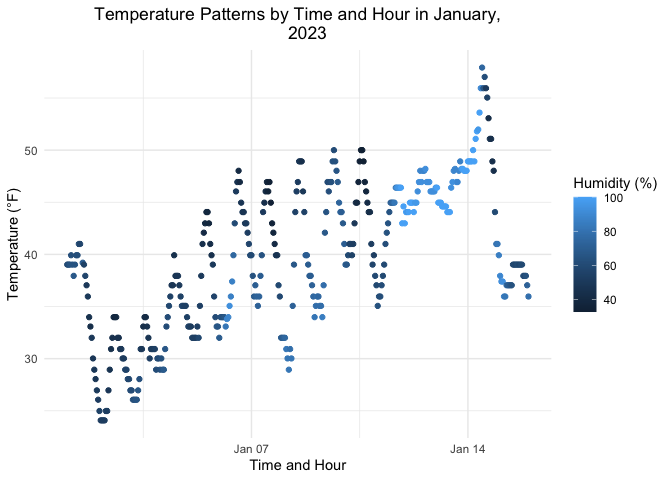
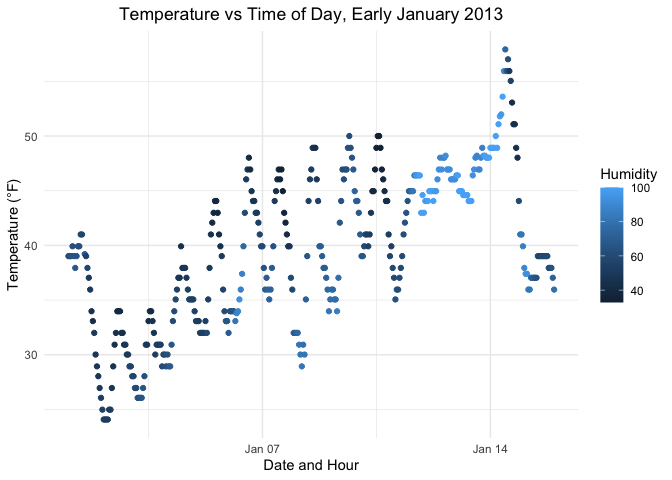
Final updates to problem sets + general formatting

diff --git a/p8105_hw1_smo2147.md b/p8105_hw1_smo2147.md
@@ -31,33 +31,33 @@ variable that stands out in this dataset is the **temperature** variable
 levels. It is important to note that the average temperature has a mean
 of **39.5821229** in Fahrenheit. Moreover, the average hour is
 **11.5307263** and the average wind speed is **8.2258269** in the month
-of January, 2023.
+of January, 2013.
 
 The following table describes the remaining variables that were also
 used to capture observations in weather patterns in the month of
-January, year 2023:
+January, year 2013:
 
-| Variable    | Description                                         |
-|-------------|-----------------------------------------------------|
-| `origin`    | Location where the weather observation was recorded |
-| `year`      | Year of observation                                 |
-| `month`     | Month of observation                                |
-| `hour`      | Hour of the day                                     |
-| `day`       | Day of the month of observation                     |
-| `dewp`      | Dew point temperature, indicating moisture in air   |
-| `humid`     | Humidity at time of observation                     |
-| `wind_dir`  | Wind direction at time of observation               |
-| `wind_gust` | Peak instantaneous wind speed at observation        |
-| `precip`    | Precipitation at the time of observation            |
-| `pressure`  | Atmospheric pressure at time of observation         |
-| `visib`     | Visibility at time of observation                   |
-| `time_hour` | Time and hour at the time of observation            |
+| Variable | Description |
+|----|----|
+| `origin` | Weather stations |
+| `year` | Year of observation |
+| `month` | Month of observation |
+| `hour` | Hour of the day |
+| `day` | Day of observation |
+| `dewp` | Dew point temperature in Fahrenheit |
+| `humid` | Relative humidity at time of observation |
+| `wind_dir` | Wind direction in degrees at time of observation |
+| `wind_gust` | Peak instantaneous wind speed in miles per hour at observation. |
+| `precip` | Precipitation in inches at the time of observation |
+| `pressure` | Sea level pressure in millibars at time of observation |
+| `visib` | Visibility in miles at time of observation |
+| `time_hour` | Date and hour at the time of observation |
 
-#### Dataframe for Scatterplot
+#### Dataframe for Scatter Plot
 
-Before we plot what the temperature by the hour looks like in a
-scattersplot, let’s use the selection function to create a dataframe for
-the variables `time_hour`, `temp`, and `humid`.
+Before we plot what the temperature by the hour looks like in a scatters
+plot, let’s use the selection function to create a dataframe for the
+variables `time_hour`, `temp`, and `humid`.
 
 ``` r
 weather_df =
@@ -66,7 +66,7 @@ weather_df =
   )
 ```
 
-#### Plotting Scatterplot
+#### Plotting Scatter Plot
 
 We will now plot the variables `temp` and `time_hour` to see how the
 temperature changed by the hour.
@@ -79,11 +79,10 @@ ggplot(
         color = humid)) + 
   geom_point() + 
   labs(
-    x = "Time and Hour", 
+    x = "Date and Hour", 
     y = "Temperature (°F)", 
-    color = "Humidity (%)") +
-  ggtitle("Temperature Patterns by Time and Hour in January,
-    2023") +
+    color = "Humidity",
+    title = "Temperature vs Time of Day, Early January 2013") +
   theme_minimal() +
   theme(plot.title = 
           element_text 
@@ -94,7 +93,7 @@ ggplot(
 ![](p8105_hw1_smo2147_files/figure-gfm/plotting%20weather%20patterns-1.png)<!-- -->
 
 This scatterplot depicts temperature patterns over time, as well as
-changes in humidity levels throughout the month of January in 2023. As
+changes in humidity levels throughout the month of January in 2013. As
 the temperature rises by the hour over the course of the month, humidity
 levels also tend to increase. It is important to note that humidity
 levels are generally lower in the mornings and higher in the afternoons,
@@ -170,19 +169,21 @@ rsamp_df |>
 ```
 
 Based on these results, we are able to get the mean for the variables
-`norm_rsamp` and `gt_zero`. This is beause `norm_rsamp` is averaging
+`norm_rsamp` and `gt_zero`. This is because `norm_rsamp` is averaging
 each random, numeric observation from the sample, whereas R is coercing
 **TRUE** and **FALSE** values in `gt_zero` as 1 and 0, respectively,
 which allows us to make operations such as the mean.
 
 However, we are unable to calculate the mean for the variables
-`char_vec` and `factor_vec`. This is because `char_vec` is treating the
-data as text. Even if its observations were numbers, R will treat all
-contents in the character vector as texts. In the case `factor_vec`, it
-is encoding a vector as categorical data, thus lacking numerical value
-to get the mean or statistical validity from numbers that are assigned
-to categories. Therefore, when we evaluate these variables, the output
-will return as **NA** because the argument is not numeric or logical.
+`char_vec` and `factor_vec` because it requires numeric or logic input.
+This is because `char_vec` is treating the data as text. Even if its
+observations were numbers, R will treat all contents in the character
+vector as texts. In the case `factor_vec`, it is encoding a vector as
+categorical data, thus lacking numerical value to get the mean or
+statistical validity from numbers that are assigned to categories.
+Therefore, when we evaluate these variables, the output will return with
+an **NA** warning because the `mean()` function is only defined by for
+numeric or logical variables.
 
 #### Coercion of Different Data Types
 
@@ -206,19 +207,19 @@ After coercing logical, character, and factor variables to numeric
 values, we can see that the function `as.numeric` converts the values
 **TRUE** and **FALSE** as binary outcomes of 1 and 0, respectively for
 the variable `gt_zero`. Calculating the mean for this logical variable
-using values of 1 and 0, or **TRUE** and **FALSE**, will yield a mean
-averaging to **0.5**. This is only dependent on how many values are
-either false or true.
+using values of 1 and 0, or **TRUE** and **FALSE**, provides a mean of
+**0.5** representing the proportion of **TRUE** values greater than 0.
+This is only dependent on how many values are either false or true.
 
-In the case of the variable `char_vec`, we can see that the values did
-not change at the time of conversion, as the character vector already
-contained numerical values, which would allows us to calculate the mean,
-averaging to **5.5**. However, if the character value contained text
-instead of numbers, the output would yield **NA** values at the time of
-coercion because letters cannot be turned into a number.
+In the case of the variable `char_vec`, we can see that the digit
+characters changed to numeric values at the time of coercion, which
+allows us to calculate the mean, averaging to **5.5**. However, if the
+character value contained text instead of digit characters, the output
+would produce an **NA** warning at the time of coercion because text
+characters cannot be converted to numbers.
 
 In the case of the variable `factor_vec`, we can see that each category
-is assigned a numerical integer based on the levels of the factor (i.e.,
-1 for chicken, 2 for rice, and 3 for beans). This allows us to calculate
-a mean averaging to **1.9**. However, this mean wouldn’t be meaningful
-because we’re assigning order to categorical data.
+is assigned a numerical integer based on level order of the factor
+(i.e., 1 for chicken, 2 for rice, and 3 for beans). This allows us to
+calculate a mean averaging to **1.9**. However, this mean wouldn’t be
+meaningful because we’re assigning order to categorical data.
